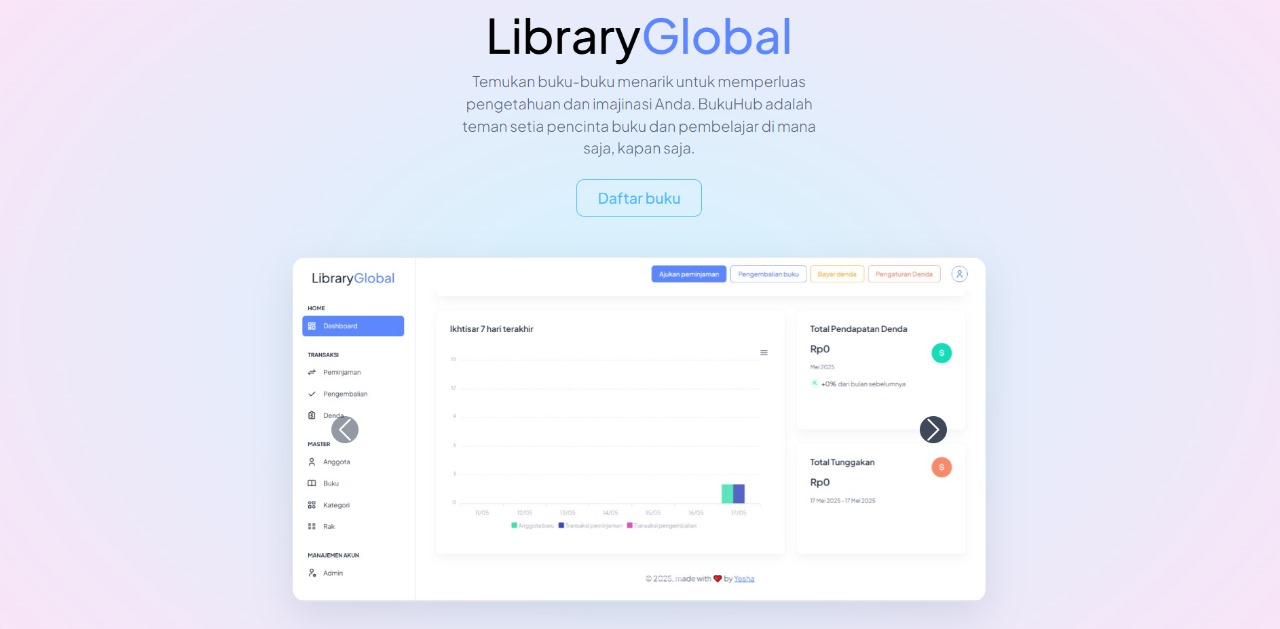
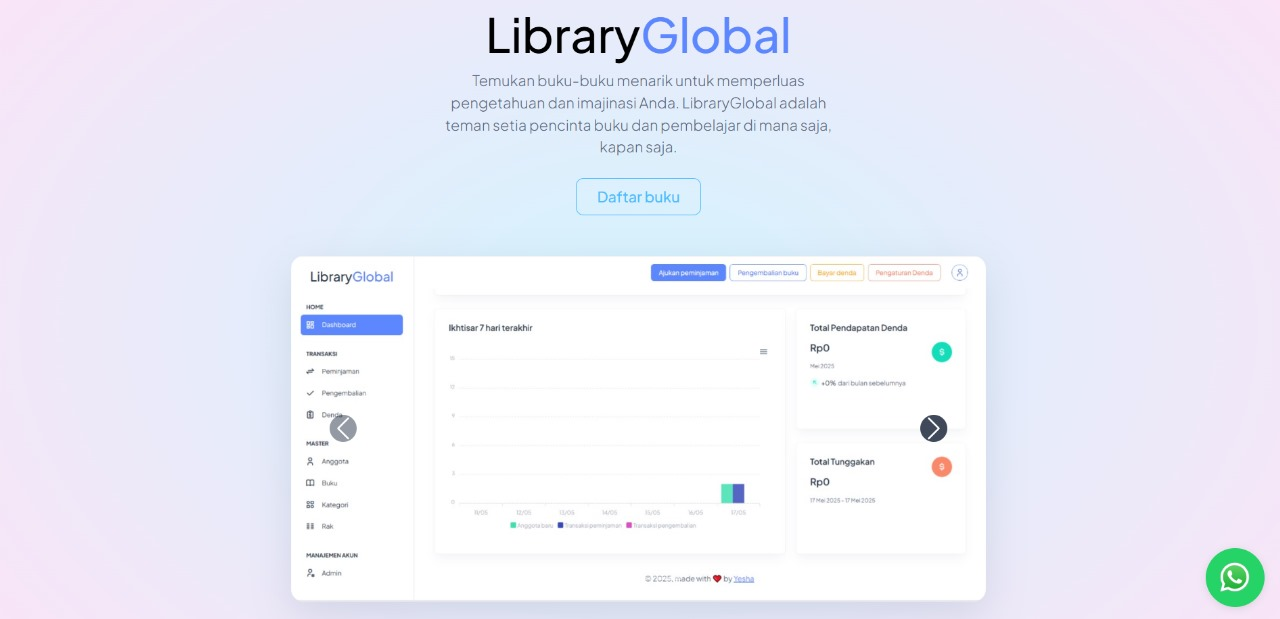
Update

diff --git a/app/Views/home/home.php b/app/Views/home/home.php
@@ -2,6 +2,22 @@
 
 <?= $this->section('head') ?>
 <title>Home</title>
+<style>
+  .whatsapp-icon {
+    position: fixed;
+    bottom: 20px;
+    right: 20px;
+    background-color: #25d366;
+    border-radius: 50%;
+    padding: 15px;
+    box-shadow: 0 2px 10px rgba(0, 0, 0, 0.1);
+    z-index: 1000;
+  }
+  .whatsapp-icon img {
+    width: 40px;
+    height: 40px;
+  }
+</style>
 <?= $this->endSection() ?>
 
 <?= $this->section('content') ?>
@@ -10,7 +26,7 @@
   <div class="col-lg-6 mx-auto">
     <p class="lead mb-4">
       Temukan buku-buku menarik untuk memperluas pengetahuan dan imajinasi Anda.
-      BukuHub adalah teman setia pencinta buku dan pembelajar di mana saja, kapan saja.
+      LibraryGlobal adalah teman setia pencinta buku dan pembelajar di mana saja, kapan saja.
     </p>
     <div class="d-grid gap-2 d-sm-flex justify-content-sm-center mb-5">
       <!--<a href="<?= base_url('login'); ?>" class="btn btn-primary btn-lg px-4 me-sm-3">Login petugas</a>-->
@@ -55,4 +71,13 @@
     </div>
   </div>
 </div>
+
+<!-- WhatsApp Icon -->
+<div class="whatsapp-icon">
+  <a href="https://wa.me/6285174145156?text=Halo%20admin%2C%20saya%20mau%20pinjam%20buku.%20Bagaimana%20ya%20caranya%3F" target="_blank">
+    <img src="https://upload.wikimedia.org/wikipedia/commons/6/6b/WhatsApp.svg" alt="WhatsApp">
+  </a>
+</div>
+
+
 <?= $this->endSection() ?>

diff --git a/app/Views/books/request_info.php b/app/Views/books/request_info.php
@@ -6,7 +6,7 @@
 
 <?= $this->section('content') ?>
 <div class="container text-center mt-5">
-    <h1 class="display-4">⚠ Halaman Tidak Tersedia</h1>
+    <h1 class="display-4">❤ Mau baca apa hari ini...?</h1>
     <p class="lead mt-3">Silakan hubungi petugas yang sedang berjaga untuk meminjam buku pilihan kamu.</p>
     <a href="<?= base_url(); ?>" class="btn btn-outline-primary mt-4">
         <i class="ti ti-home"></i> Kembali ke Beranda
